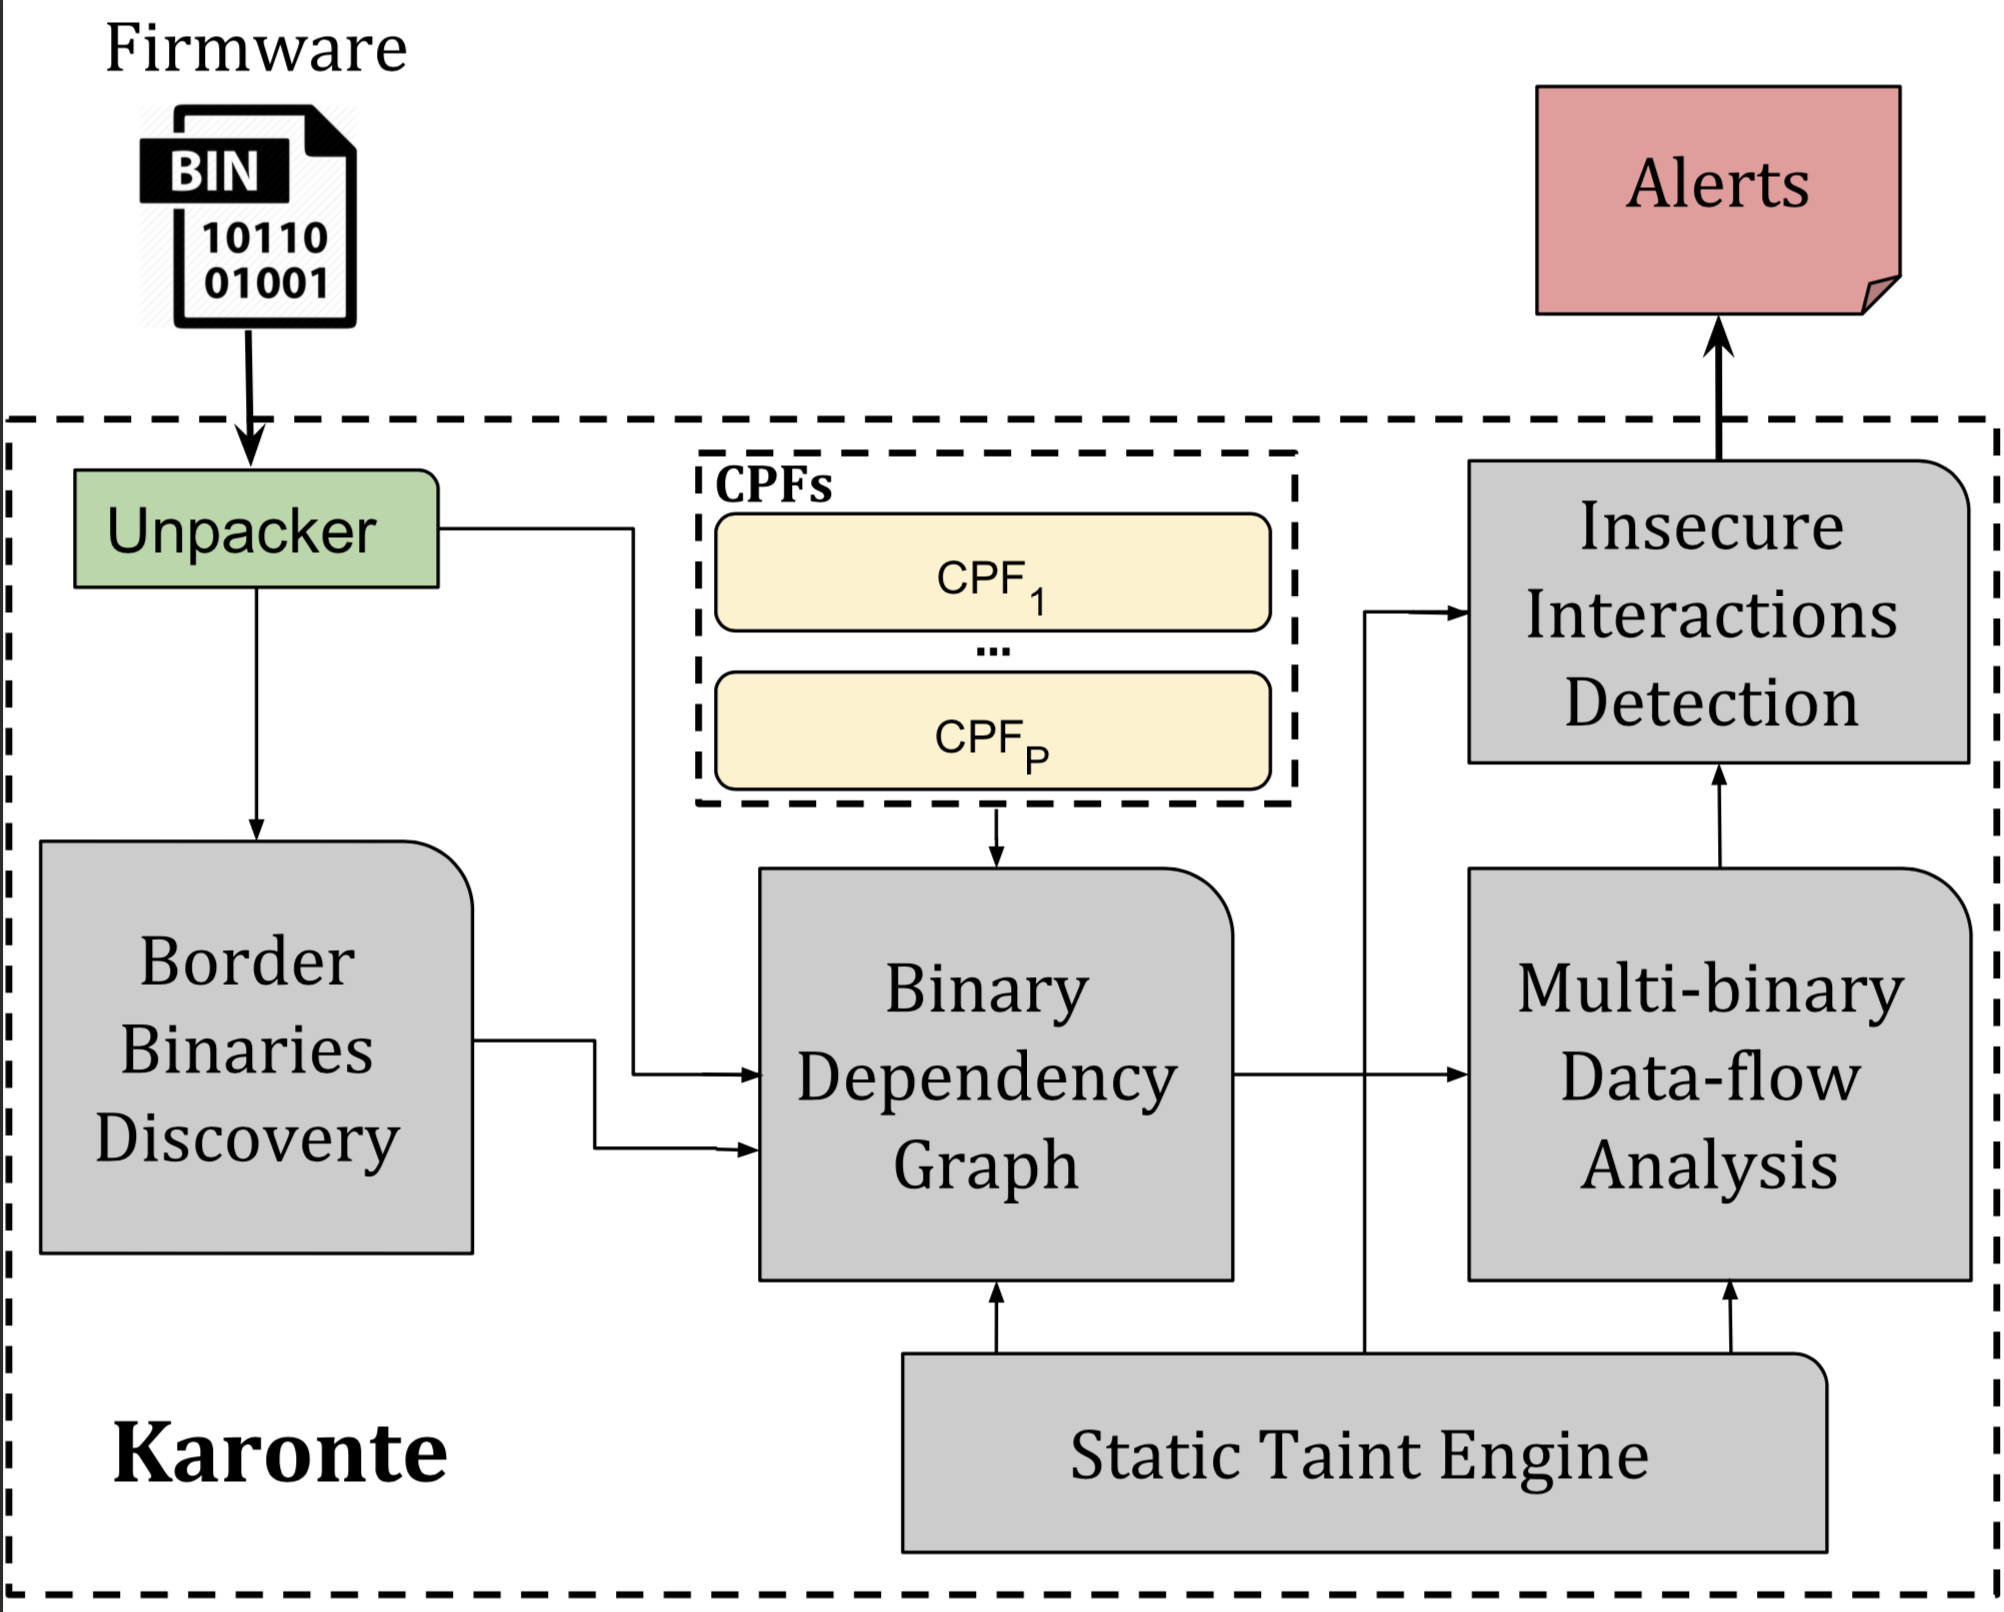
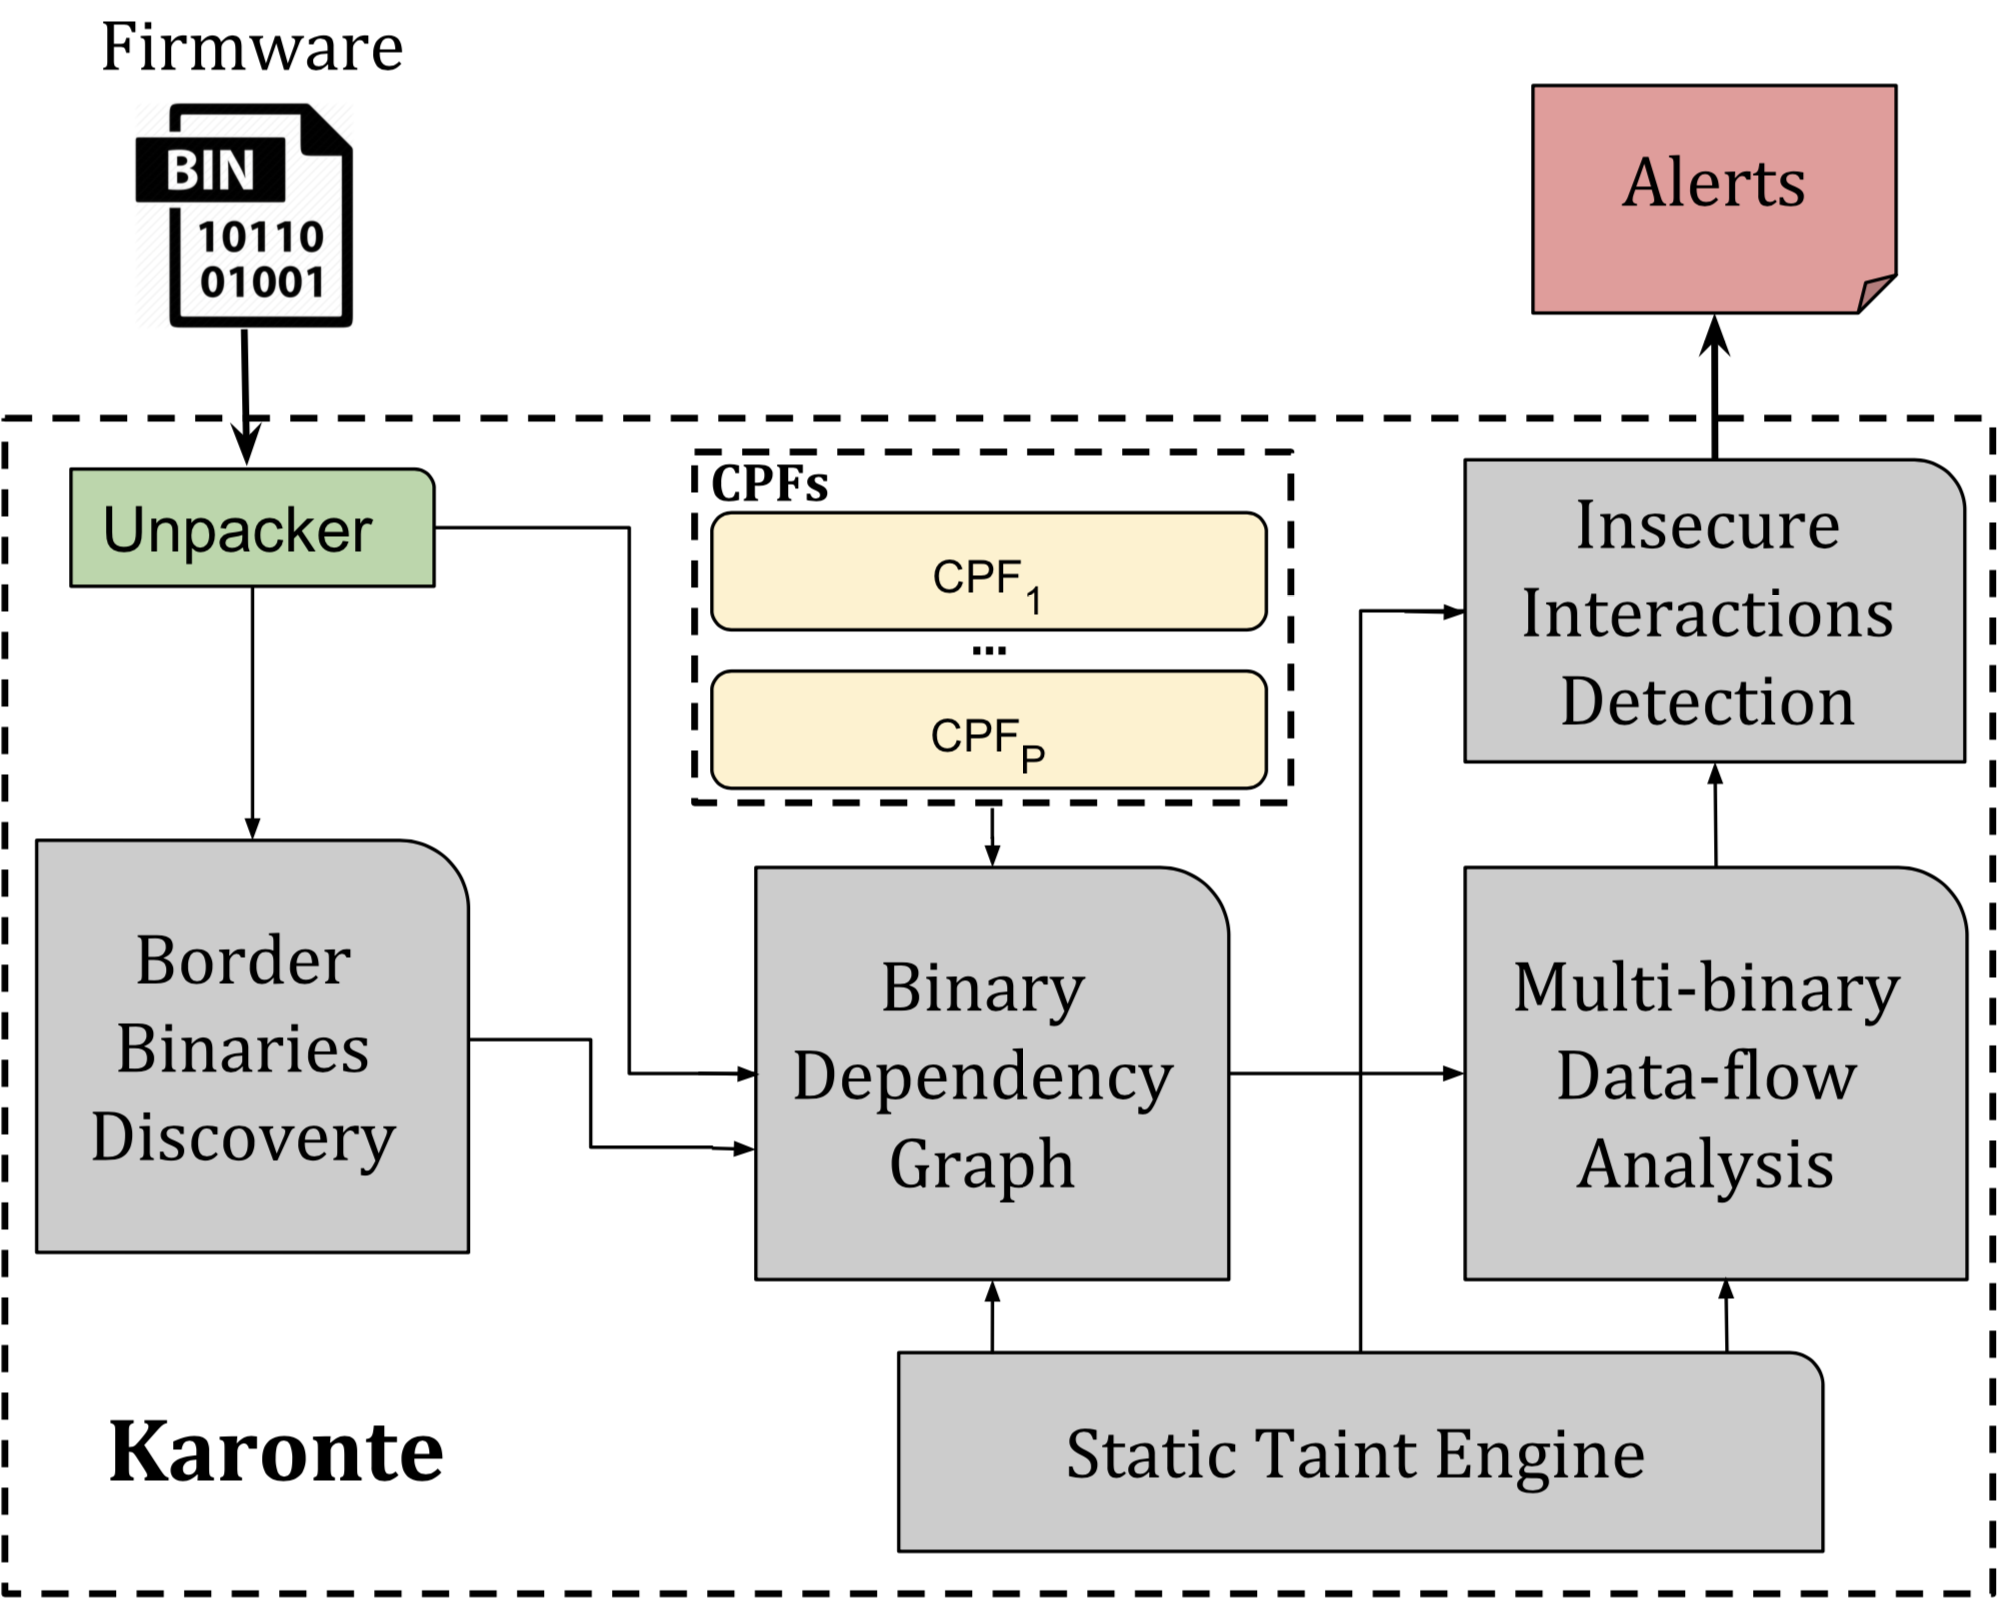
resize overview img

diff --git a/README.md b/README.md
@@ -6,7 +6,7 @@ Karonte is a static analysis tool to detect multi-binary vulnerabilities in embe
 
 ## Overview
 
-![Overview](overview.png)
+<img src="overview.png" width="60%">
 
 ## Research paper
 
